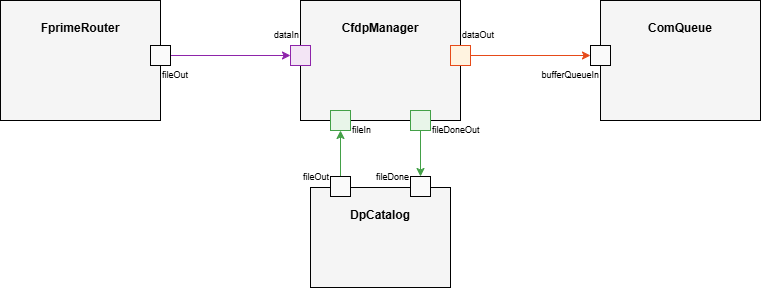
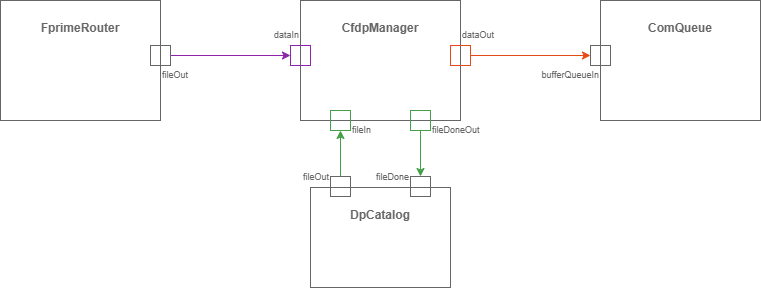
Another theme iteration

diff --git a/Svc/Ccsds/CfdpManager/docs/sdd.md b/Svc/Ccsds/CfdpManager/docs/sdd.md
@@ -79,48 +79,15 @@ Ports are organized as follows:
 
 ## Usage Examples
 
-```mermaid
-%%{init: {
-  "theme": "base",
-  "themeVariables": {
-    "background": "#0b1d26",
-    "primaryColor": "#5b8f9e",
-    "primaryTextColor": "#ffffff",
-    "primaryBorderColor": "#5b8f9e",
-    "lineColor": "#cfd8dc",
-    "fontSize": "14px"
-  }
-}}%%
+The following diagram shows typical CfdpManager port connections with other F' components:
 
-flowchart LR
-  subgraph FprimeRouter
-    FprimeRouter_fileOut["fileOut<br/>0"]
-  end
+![CfdpManager Usage Example](img/CfdpManager_usage.png)
 
-  subgraph CfdpManager
-    CfdpManager_dataIn["dataIn<br/>0"]
-    CfdpManager_dataOut["dataOut<br/>0"]
-    CfdpManager_sendFile["sendFile<br/>0"]
-    CfdpManager_fileDoneOut["fileDoneOut<br/>0"]
-  end
+This example demonstrates:
+- **Uplink data flow**: FprimeRouter deframes incoming CFDP PDUs and sends them to CfdpManager via `dataIn`
+- **Downlink data flow**: CfdpManager sends outgoing CFDP PDUs to ComQueue via `dataOut` for transmission
+- **Port-based file transfers**: DpCatalog initiates file transfers via CfdpManager's `fileIn` port and receives completion notifications via `fileDoneOut`
 
-  subgraph ComQueue
-    ComQueue_bufferQueueIn["bufferQueueIn<br/>0"]
-  end
-
-  subgraph DpCatalog
-    DpCatalog_fileOut["fileOut<br/>0"]
-    DpCatalog_fileDone["fileDone<br/>1"]
-  end
-
-  FprimeRouter_fileOut --> CfdpManager_dataIn
-  CfdpManager_dataOut --> ComQueue_bufferQueueIn
-  DpCatalog_fileOut --> CfdpManager_sendFile
-  CfdpManager_fileDoneOut --> DpCatalog_fileDone
-```
-
-### Typical Usage
-And the typical usage of the component here
 
 ## Component States
 Add component states in the chart below
